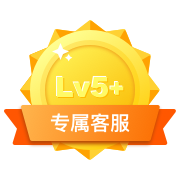
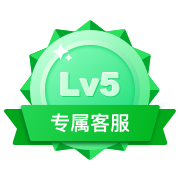
modidy & and:1.会员等级权益页-图标按产品要求修改2.增加-玩转会员攻略页面

diff --git a/membership/memberLevelInterest/sourcecode/js/getstart.js b/membership/memberLevelInterest/sourcecode/js/getstart.js
@@ -13,68 +13,79 @@ var _levelInfos = new Array();
 var _userLevel = 1;
 _levelInfos = [
 	 {
-	 	level:1, 
-	 	levelName:"等级礼包", 
-	 	picNormal: __uri("../img/lv1.png"), 
-	 	picDisabled: __uri("../img/lv1disabled.png"),
-	 	picFocus: __uri("../img/lv1focus.png"),
-	 	picFocusDisabled:__uri("../img/lv1focusdisabled.png"),
-	 	picBig: __uri("../img/lv1big.png"),
-	 	levelCondition:"Lv1 (含) 以上可解锁", 
-	 	levelDes:"不同等级会员尊享不同的福利特权，当您的等级提升时，还会赠送您不同级别的升级礼包，等级越高能尊享的权益越多、价值越高，赶快提升等级享受更多福利吧~"
+	 	level:2, 
+	 	levelName:"升级礼包", 
+	 	picNormal: __uri("../img/lv21.png"), 
+	 	picDisabled: __uri("../img/lv21.png"),
+	 	picFocus: __uri("../img/lv21focus.png"),
+	 	picFocusDisabled:__uri("../img/lv21focus.png"),
+	 	picBig: __uri("../img/lv21big.png"),
+	 	levelCondition:"Lv2（含）以上可解锁", 
+	 	levelDes:"升级礼包含有不同面值的优惠券、金币等，当您的等级提升时，会根据您的级别赠送不同价值的升级礼包，等级越高获得的礼包价值越高，赶快提升等级享受更多福利吧~"
 	 }
 	,{
-		level:1, 
-	 	picNormal: __uri("../img/lv12.png"), 
-	 	picDisabled: __uri("../img/lv12disabled.png"),
-	 	picFocus: __uri("../img/lv12focus.png"),
-	 	picFocusDisabled:__uri("../img/lv12focusdisabled.png"),
-	 	picBig: __uri("../img/lv12big.png"),
-		levelName:"专属活动", 
-		levelCondition:"Lv1 (含) 以上可解锁", 
+		level:2, 
+	 	picNormal: __uri("../img/lv22.png"), 
+	 	picDisabled: __uri("../img/lv22.png"),
+	 	picFocus: __uri("../img/lv22focus.png"),
+	 	picFocusDisabled:__uri("../img/lv22focus.png"),
+	 	picBig: __uri("../img/lv22big.png"),
+		levelName:"等级专属线上活动", 
+		levelCondition:"Lv2（含）以上可解锁", 
 		levelDes:"参与专属等级线上活动，精彩好礼等您来拿，还有好玩有趣的游戏等您参与。"
 	}
 	,{
 		level:3,
 	 	picNormal: __uri("../img/lv3.png"), 
-	 	picDisabled: __uri("../img/lv3disabled.png"),
+	 	picDisabled: __uri("../img/lv3.png"),
 	 	picFocus: __uri("../img/lv3focus.png"),
-	 	picFocusDisabled:__uri("../img/lv3focusdisabled.png"),
+	 	picFocusDisabled:__uri("../img/lv3focus.png"),
 	 	picBig: __uri("../img/lv3big.png"),
-		levelName:"线下活动", 
+		levelName:"等级专享", 
 		levelCondition:"Lv3 (含)以上可解锁", 
-		levelDes:"用户根据等级可参与不同的线下福利活动，如粉丝见面会、大咖线下活动等，让您与明星零距离接触。"
+		levelDes:"根据您的等级不同，会不定期的赠送专属等级优惠券、金币、成长值等。"
+	}
+	,{
+		level:4,
+	 	picNormal: __uri("../img/lv4.png"), 
+	 	picDisabled: __uri("../img/lv4.png"),
+	 	picFocus: __uri("../img/lv4focus.png"),
+	 	picFocusDisabled:__uri("../img/lv4focus.png"),
+	 	picBig: __uri("../img/lv4big.png"),
+		levelName:"线下活动福利", 
+		levelCondition:"Lv4（含）以上可解锁", 
+		levelDes:"不同等级的用户可参与不同的线下福利活动，如粉丝见面会、大咖线下活动等，让您与明星零距离接触。"
 	}
 	,{
 		level:5,
 	 	picNormal: __uri("../img/lv5.png"), 
-	 	picDisabled: __uri("../img/lv5disabled.png"),
+	 	picDisabled: __uri("../img/lv5.png"),
 	 	picFocus: __uri("../img/lv5focus.png"),
-	 	picFocusDisabled:__uri("../img/lv5focusdisabled.png"),
+	 	picFocusDisabled:__uri("../img/lv5focus.png"),
 	 	picBig: __uri("../img/lv5big.png"),
 		levelName:"专属客服", 
-		levelCondition:"Lv5 (含) 以上可解锁", 
-		levelDes:"有问题随时随地找客服，等待时间短，尊享贵宾服务，客服小伙伴优先解决您的困扰服务热线：拨打专线400-168-8880."
+		levelCondition:"Lv5（含）以上可解", 
+		levelDes:"有问题随时随地找客服，等待时间短，尊享贵宾服务，客服小伙伴优先解决您的困扰。 <br/>服务热线：<br/>拨打专线400-168-8880"
 	}
 	,{
-		level:6,
+		level:6, 
 	 	picNormal: __uri("../img/lv6.png"), 
-	 	picDisabled: __uri("../img/lv6disabled.png"),
+	 	picDisabled: __uri("../img/lv6.png"),
 	 	picFocus: __uri("../img/lv6focus.png"),
-	 	picFocusDisabled:__uri("../img/lv6focusdisabled.png"),
+	 	picFocusDisabled:__uri("../img/lv6focus.png"),
 	 	picBig: __uri("../img/lv6big.png"),
-		levelName:"专属主题", 
-		levelCondition:"Lv6 (含) 以上可解锁", 
-		levelDes:"会员出品，必属精品。丰富多样的系统主题，专享主题服务，让您与众不同。"
+		levelName:"等级专属主题", 
+		levelCondition:"Lv6（含）以上可解锁", 
+		levelDes:"丰富多样的系统主题，专享主题服务，让您的电视与众不同。"
 	}
 	,{
 		level:7, 
 	 	picNormal: __uri("../img/lv7.png"), 
-	 	picDisabled: __uri("../img/lv7disabled.png"),
+	 	picDisabled: __uri("../img/lv7.png"),
 	 	picFocus: __uri("../img/lv7focus.png"),
-	 	picFocusDisabled:__uri("../img/lv7focusdisabled.png"),
+	 	picFocusDisabled:__uri("../img/lv7focus.png"),
 	 	picBig: __uri("../img/lv7big.png"),
-		levelName:"定制屏保", 
+		levelName:"等级免费定制屏保", 
 		levelCondition:"Lv7 (含) 以上可解锁", 
 		levelDes:"免费定制您喜爱的屏保，装扮不再单调，让电视屏保也赏心悦目。"
 	}
@@ -274,7 +285,7 @@ function showLevelDetails() {
 	console.log("showLevelDetails in...");
 	$(".sideLevelGiftTitle").text(_levelInfos[_Lindex].levelName);
 	$(".sideLevelGiftConditionsDetails").text(_levelInfos[_Lindex].levelCondition);
-	$(".sideLevelPrivilegeDetails").text(_levelInfos[_Lindex].levelDes);
+	$(".sideLevelPrivilegeDetails").html(_levelInfos[_Lindex].levelDes);
 //	var pic = app.rel_html_imgpath(_levelInfos[_Lindex].picBig);
 //	// var pic = _levelInfos[_Lindex].picBig;
 //	$(".sideLevelIconShowClass").css("background-image", "url("+pic+")");

diff --git a/membership/memberLevelInterest/sourcecode/index2.html b/membership/memberLevelInterest/sourcecode/index2.html
@@ -1,0 +1,77 @@
+<!DOCTYPE html>
+<html>
+	<head>
+		<meta name="format-detection" content="telephone=no">
+		<meta charset="UTF-8">
+		<meta http-equiv="expires" content="0">
+		<meta http-equiv="pragma" content="no-cache">
+		<meta http-equiv="cache-control" content="no-cache">
+		<link rel="stylesheet" type="text/css" href="css/index1.css"/>
+		<title>玩转会员攻略</title>
+		<style type="text/css">
+			* {
+				margin: 0;
+				padding: 0;
+				border: 0;
+				outline: 0;
+			}
+			
+			body {
+				position: absolute;
+				width: 1920px;
+				height: 1080px;
+				background-size: 100%;
+				background-repeat: no-repeat;
+				background-color: rgba(16,16,16,0.96);
+			}
+			
+			img[src=''] {
+				visibility: hidden;
+			}
+			
+			.fullScreen {
+				position: absolute;
+				width: 1920px;
+				height: 1080px;
+				background-repeat: no-repeat;
+				background-size: 100%;
+				overflow: hidden;
+			}
+			
+			#public {
+				position: absolute;
+				width: 1920px;
+				height: 1080px;
+				top: 0;
+				left: 0;
+				background-repeat: no-repeat;
+				background-size: 100%;
+				background-image: url(img/goodpaly.webp);
+			}
+		</style>
+		<script>
+			var adjust = function() {
+				if(/Android (\d+\.\d+)/.test(navigator.userAgent)) {
+					var version = parseFloat(RegExp.$1);
+					if(version > 2.3) {
+						var phoneScale = parseInt(window.screen.width) / 1920;
+						document.write('<meta name="viewport" content="width=1920, minimum-scale = ' + phoneScale + ', maximum-scale = ' + phoneScale + ', target-densitydpi=device-dpi">');
+					} else {
+						document.write('<meta name="viewport" content="width=1920, target-densitydpi=device-dpi">');
+					}
+				} else {
+					document.write('<meta name="viewport" content="width=1920, user-scalable=no, target-densitydpi=device-dpi">');
+				}
+			}
+			adjust();
+		</script>
+	</head>
+
+	<body>
+		<div id="deviceready" class="fullScreen">
+			<div id="public"></div>
+		</div>	
+		<script type="text/javascript" src="js/jquery-1.8.3.min.js"></script>
+		<script type="text/javascript" src="js/coocaamap-1.0.js"></script>
+	</body>
+</html>

diff --git a/membership/memberLevelInterest/sourcecode/css/index.css b/membership/memberLevelInterest/sourcecode/css/index.css
@@ -13,15 +13,13 @@ body {
 }
 
 .headerContainer {
-	width: 100%;
+	width: 386px;
 	height: 216px;
-	line-height: 216px;
-	font-size: 66px;
-	font-family: "PingFangSC-Semibold", sans-serif;
-	text-align: center;
-	-webkit-background-clip: text;
-	background-clip: text;
-	color: transparent;	
+	position: relative;
+	left: 727px;
+	top: 77px;
+	background-image: url(../img/title.png);
+	background-repeat: no-repeat;
 }
 
 .sidebarContainer {

diff --git a/membership/memberLevelInterest/sourcecode/index.html b/membership/memberLevelInterest/sourcecode/index.html
@@ -35,7 +35,7 @@
 	<body>
 		<div id="deviceready">
 			<!--标题页-->
-			<div class="headerContainer">全部会员权益</div>
+			<div class="headerContainer"></div>
 			
 			<!--左侧栏-->
 			<div class="sidebarContainer">

diff --git a/membership/memberLevelInterest/README.md b/membership/memberLevelInterest/README.md
@@ -1,4 +1,4 @@
-# 会员等级权益页
+#(1)会员等级权益页
 输入参数说明：
 level:[1-7],表示用户等级，默认值为1
 
@@ -31,6 +31,16 @@ https://webapp.skysrt.com/cc7.0/memberLevelInterest/index.html?level=7
 测试板上输入命令：
 am start -a coocaa.intent.action.browser --es "url"  "https://webapp.skysrt.com/cc7.0/memberLevelInterest/index.html?level=5";
 
+#(2)玩转会员攻略-页面
+1.测试环境配置url：
+https://beta.webapp.skysrt.com/yuanbo/memberLevelInterest/index2.html
+测试板上输入命令：
+am start -a coocaa.intent.action.browser --es "url"  "https://beta.webapp.skysrt.com/yuanbo/memberLevelInterest/index2.html";
+
+2.正式环境url:
+https://webapp.skysrt.com/cc7.0/memberLevelInterest/index2.html
+测试板上输入命令：
+am start -a coocaa.intent.action.browser --es "url"  "https://webapp.skysrt.com/cc7.0/memberLevelInterest/index2.html";
 
 ###后台服务器接口：
 1.成长值等级划分
